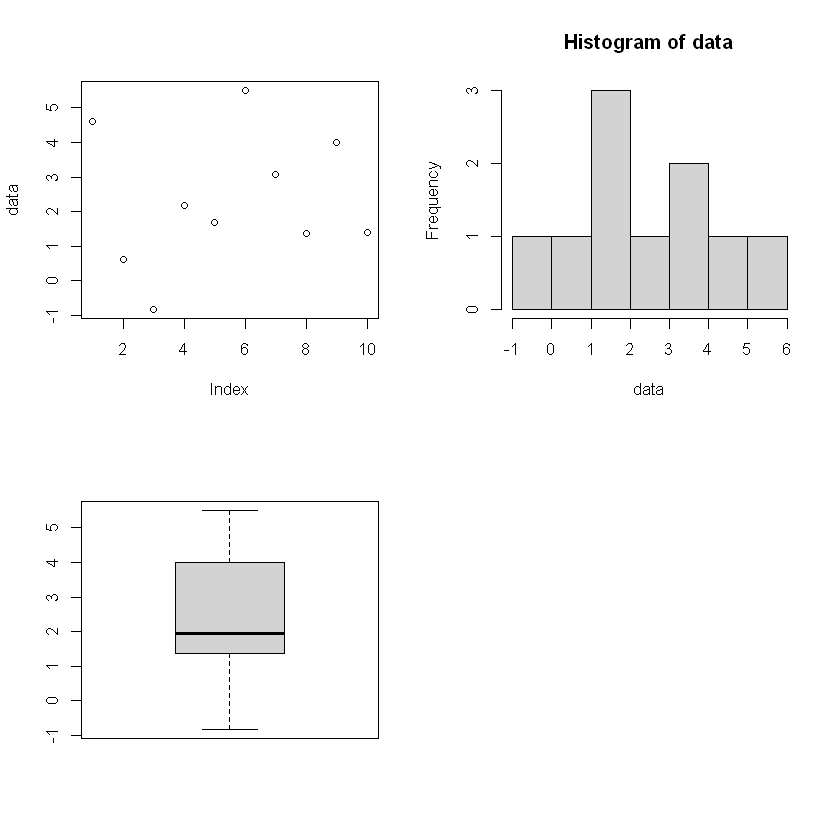
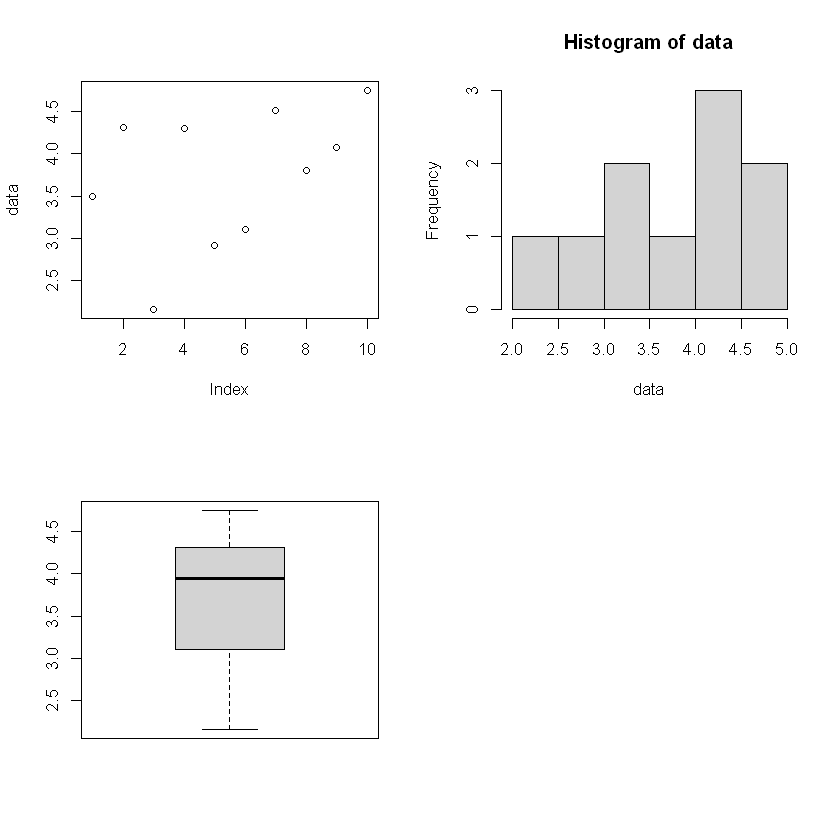
binf

Changed region(s): [[0.681, 0.0929, 0.9595, 0.3095], [0.1857, 0.65, 0.3405, 0.7119], [0.2167, 0.7429, 0.3405, 0.8048]]

diff --git a/binf8441/lab3.html b/binf8441/lab3.html
@@ -600,11 +600,11 @@ title="Print to PDF"
 </div>
 </div>
 <div class="cell_output docutils container">
-<div class="output stream highlight-myst-ansi notranslate"><div class="highlight"><pre><span></span>[1] &quot;the sample average is 4.9&quot;
+<div class="output stream highlight-myst-ansi notranslate"><div class="highlight"><pre><span></span>[1] &quot;the sample average is 6&quot;
 </pre></div>
 </div>
-<div class="output text_html">2.42441287279576</div><div class="output text_plain highlight-myst-ansi notranslate"><div class="highlight"><pre><span></span>   Min. 1st Qu.  Median    Mean 3rd Qu.    Max. 
-   1.00    3.25    5.00    4.90    6.75    8.00 
+<div class="output text_html">2.82842712474619</div><div class="output text_plain highlight-myst-ansi notranslate"><div class="highlight"><pre><span></span>   Min. 1st Qu.  Median    Mean 3rd Qu.    Max. 
+    2.0     4.5     6.0     6.0     7.0    11.0 
 </pre></div>
 </div>
 <div class="output text_html"><style>
@@ -612,8 +612,8 @@ title="Print to PDF"
 .list-inline>li {display: inline-block}
 .list-inline>li:not(:last-child)::after {content: "\00b7"; padding: 0 .5ex}
 </style>
-<ol class=list-inline><li>1</li><li>2</li><li>3</li><li>4</li><li>5</li><li>5</li><li>6</li><li>7</li><li>8</li><li>8</li></ol>
-</div><div class="output text_html">8</div><div class="output text_html">1</div><div class="output text_html"><strong>95%:</strong> 8</div><img alt="_images/lab3_1_7.png" src="_images/lab3_1_7.png" />
+<ol class=list-inline><li>2</li><li>2</li><li>4</li><li>6</li><li>6</li><li>6</li><li>7</li><li>7</li><li>9</li><li>11</li></ol>
+</div><div class="output text_html">11</div><div class="output text_html">2</div><div class="output text_html"><strong>95%:</strong> 10.1</div><img alt="_images/lab3_1_7.png" src="_images/lab3_1_7.png" />
 </div>
 </div>
 <p>Then we increase the sample size <span class="math notranslate nohighlight">\(n\)</span> from 100, 200, up to 100,000 and recalculate the sample average. By the law of large numbers, we expect that the sample average gets closer to the true population mean 5 as the sample size increases.</p>
@@ -661,11 +661,11 @@ title="Print to PDF"
 </div>
 </div>
 <div class="cell_output docutils container">
-<div class="output stream highlight-myst-ansi notranslate"><div class="highlight"><pre><span></span>[1] &quot;the sample average is 2.36083392151548&quot;
+<div class="output stream highlight-myst-ansi notranslate"><div class="highlight"><pre><span></span>[1] &quot;the sample average is 3.74153609307441&quot;
 </pre></div>
 </div>
-<div class="output text_html">1.93003574582077</div><div class="output text_plain highlight-myst-ansi notranslate"><div class="highlight"><pre><span></span>   Min. 1st Qu.  Median    Mean 3rd Qu.    Max. 
--0.8299  1.3881  1.9357  2.3608  3.7611  5.4995 
+<div class="output text_html">0.814654082284029</div><div class="output text_plain highlight-myst-ansi notranslate"><div class="highlight"><pre><span></span>   Min. 1st Qu.  Median    Mean 3rd Qu.    Max. 
+  2.162   3.201   3.941   3.742   4.306   4.744 
 </pre></div>
 </div>
 <div class="output text_html"><style>
@@ -673,18 +673,14 @@ title="Print to PDF"
 .list-inline>li {display: inline-block}
 .list-inline>li:not(:last-child)::after {content: "\00b7"; padding: 0 .5ex}
 </style>
-<ol class=list-inline><li>-0.829898405442429</li><li>0.623900278163762</li><li>1.38092755147148</li><li>1.40971141285073</li><li>1.68907710600261</li><li>2.18238009057675</li><li>3.07312116632273</li><li>3.99043285891334</li><li>4.58921553147129</li><li>5.49947162482455</li></ol>
-</div><div class="output text_html">5.49947162482455</div><div class="output text_html">-0.829898405442429</div><div class="output text_html"><strong>95%:</strong> 5.08985638281559</div><img alt="_images/lab3_5_7.png" src="_images/lab3_5_7.png" />
+<ol class=list-inline><li>2.16242108134352</li><li>2.91995136810599</li><li>3.10282592122345</li><li>3.49375628557433</li><li>3.80542176532894</li><li>4.07712742369844</li><li>4.29086791528527</li><li>4.31115530973003</li><li>4.50800401023869</li><li>4.74382985021546</li></ol>
+</div><div class="output text_html">4.74382985021546</div><div class="output text_html">2.16242108134352</div><div class="output text_html"><strong>95%:</strong> 4.63770822222591</div><img alt="_images/lab3_5_7.png" src="_images/lab3_5_7.png" />
 </div>
 </div>
 <p>Then we increase the sample size <span class="math notranslate nohighlight">\(n\)</span> from 100, 200, up to 100,000 and recalculate the sample average. By the law of large numbers, we expect that the sample average gets closer to the true population mean 2.7 as the sample size increases.</p>
 <div class="cell docutils container">
 <div class="cell_input docutils container">
-<div class="highlight-r notranslate"><div class="highlight"><pre><span></span><span class="n">sample_size</span> <span class="o">=</span> <span class="m">10</span>
-<span class="n">data</span> <span class="o">=</span> <span class="nf">rpois</span><span class="p">(</span><span class="n">sample_size</span><span class="p">,</span> <span class="n">lambda</span><span class="o">=</span><span class="m">5</span><span class="p">)</span>
-<span class="n">sample_average</span> <span class="o">=</span> <span class="nf">mean</span><span class="p">(</span><span class="n">data</span><span class="p">)</span>
-
-<span class="n">nsim</span> <span class="o">=</span> <span class="m">1000</span>
+<div class="highlight-r notranslate"><div class="highlight"><pre><span></span><span class="n">nsim</span> <span class="o">=</span> <span class="m">1000</span>
 <span class="n">sample_size</span> <span class="o">=</span> <span class="p">(</span><span class="m">1</span><span class="o">:</span><span class="n">nsim</span><span class="p">)</span><span class="o">*</span><span class="m">100</span>
 <span class="n">sample_average</span> <span class="o">=</span> <span class="m">1</span><span class="o">:</span><span class="n">nsim</span>
 <span class="nf">for</span><span class="p">(</span><span class="n">i</span> <span class="n">in</span> <span class="m">1</span><span class="o">:</span><span class="n">nsim</span><span class="p">){</span>
